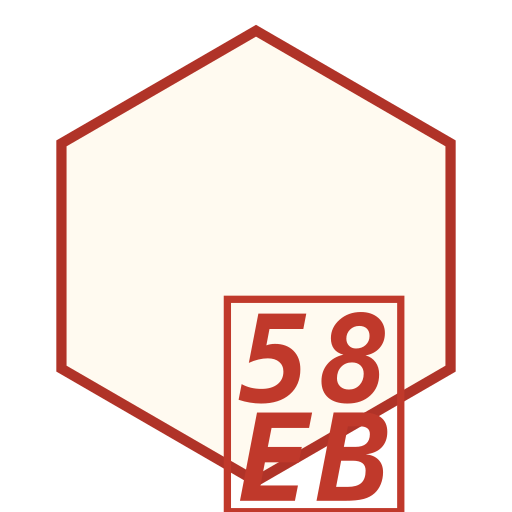
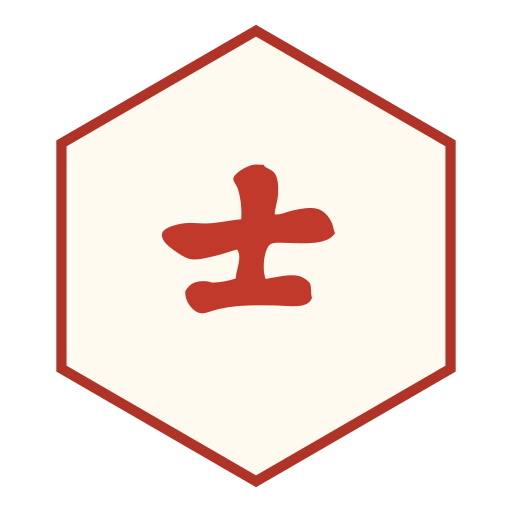
Build cursive Janggi pieces from Janggi.svg source

Changed region(s): [[0.3125, 0.3125, 0.8125, 1.0]]

diff --git a/webapp/src/main/resources/templates/about/about.html b/webapp/src/main/resources/templates/about/about.html
@@ -222,6 +222,9 @@
             Traditional pieces from <a href="https://commons.wikimedia.org/wiki/File:Xiangqi_Board.svg" target="_blank">Wikimedia</a>
         </li>
         <li>
+            Janggi cursive piece glyphs adapted from <a href="https://commons.wikimedia.org/wiki/File:Janggi.svg" target="_blank">Wikimedia Janggi.svg</a>
+        </li>
+        <li>
             Elephant design by <a href="https://www.shutterstock.com/g/rumbig" target="_blank">Rumbig</a>
         </li>
     </ul>
